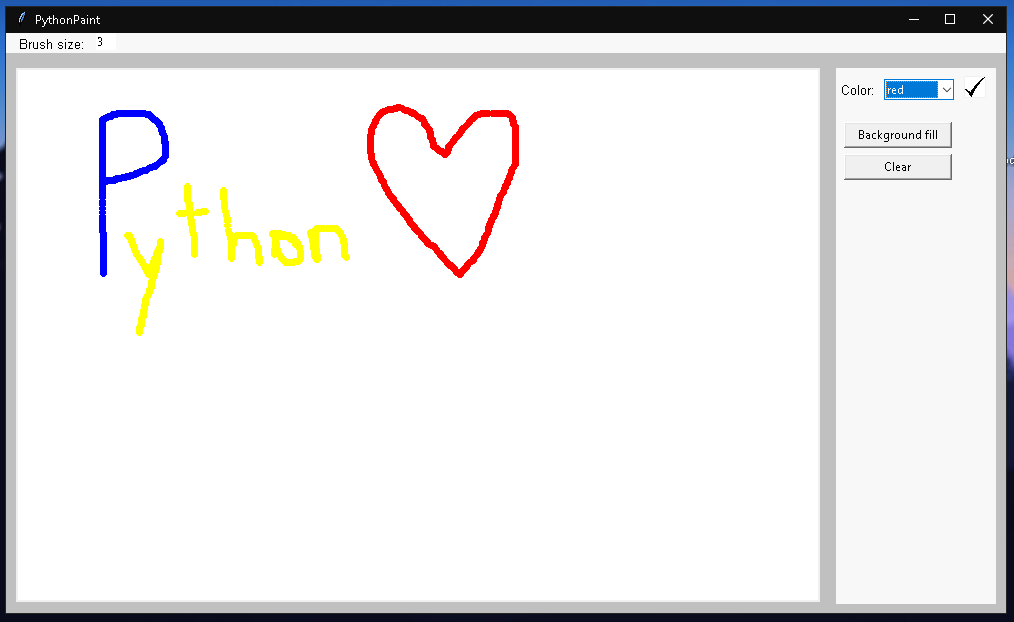
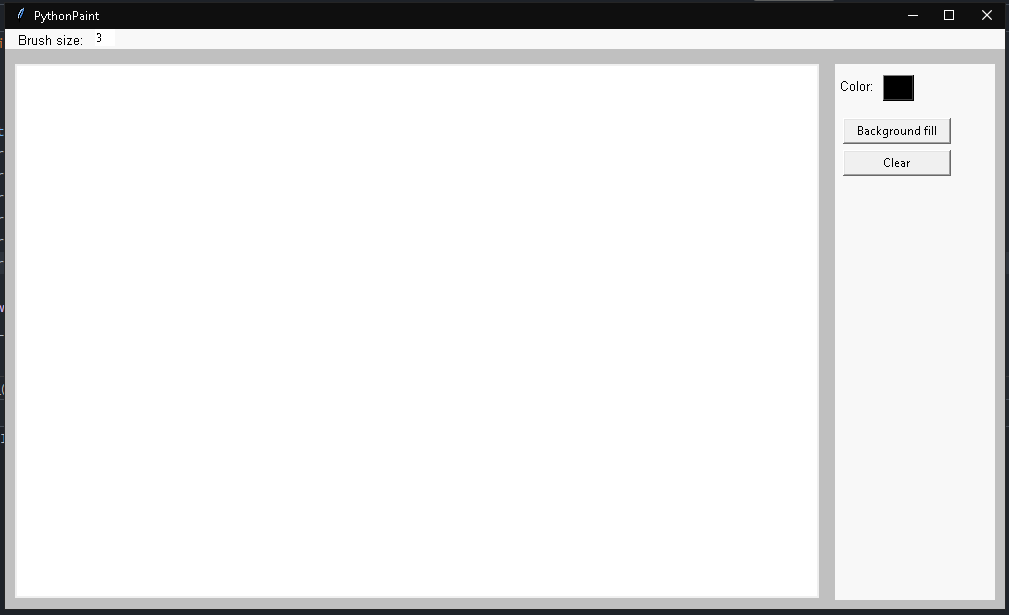
New screenshot, deleted check-mark.png, added use of hex colors

diff --git a/main.py b/main.py
@@ -1,7 +1,4 @@
 from tkinter import *
-from tkinter.ttk import Combobox
-from PIL import Image
-from PIL import ImageTk
 
 
 class Window:
@@ -12,10 +9,6 @@ class Window:
         self.root.resizable(resizable[0], resizable[1])
         self.root.iconbitmap(icon)
         self.root['bg'] = '#C0C0C0'
-
-        img = Image.open(r'check-mark.png')
-        img = img.resize((20, 20), Image.ANTIALIAS)
-        self.mark_img = ImageTk.PhotoImage(img)
 
     def draw_widget(self):
         brush_size = 3
@@ -43,14 +36,27 @@ class Window:
                 new_size = size_entry.get()
                 brush_size = int(new_size)
 
-        def color_change():
-            nonlocal color
-            new_color = pallete.get()
-            color = new_color
-
         def bg_color_change():
             nonlocal color
             canvas_area['bg'] = color
+
+        def color_accept():
+            new_color = hex_e.get()
+            nonlocal bt_color, color
+            bt_color['bg'] = new_color
+            color = new_color
+
+        def color_window():
+            window1 = Toplevel()
+            window1.geometry('250x100+300+200')
+
+            lb_desc = Label(window1, text='Enter Hex Colors(Example: #ff1489)', font='Arial 11')
+            lb_desc.place(x=5, y=5)
+
+            global hex_e
+            hex_e = Entry(window1, width=8)
+            hex_e.place(x=70, y=50)
+            Button(window1, text='Accept', command=color_accept, font='Arial 12').place(x=150, y=40)
 
         bg_btn = Button(frame_two, text='Background fill', width=14, command=lambda: bg_color_change())
         bg_btn.place(relx=.05, rely=.1)
@@ -69,12 +75,8 @@ class Window:
         size_entry.insert(0, 3)
         size_entry.bind('<Key>', brush_size_change)
 
-        pallete = Combobox(frame_two, values=('red', 'green', 'blue', 'yellow', 'black', 'white'), state='readonly')
-        pallete.set('black')
-        pallete.place(relx=.3, rely=.02, width=70)
-
-        bt_pallete = Button(frame_two, image=self.mark_img, bd=0, command=color_change)
-        bt_pallete.place(relx=.8, rely=.015)
+        bt_color = Button(frame_two, width=3, height=1, bg=color, command=color_window)
+        bt_color.place(relx=.3, rely=.02)
 
         canvas_area = Canvas(self.root, width=800, height=530, bg='white')
         canvas_area.bind('<B1-Motion>', paint)
